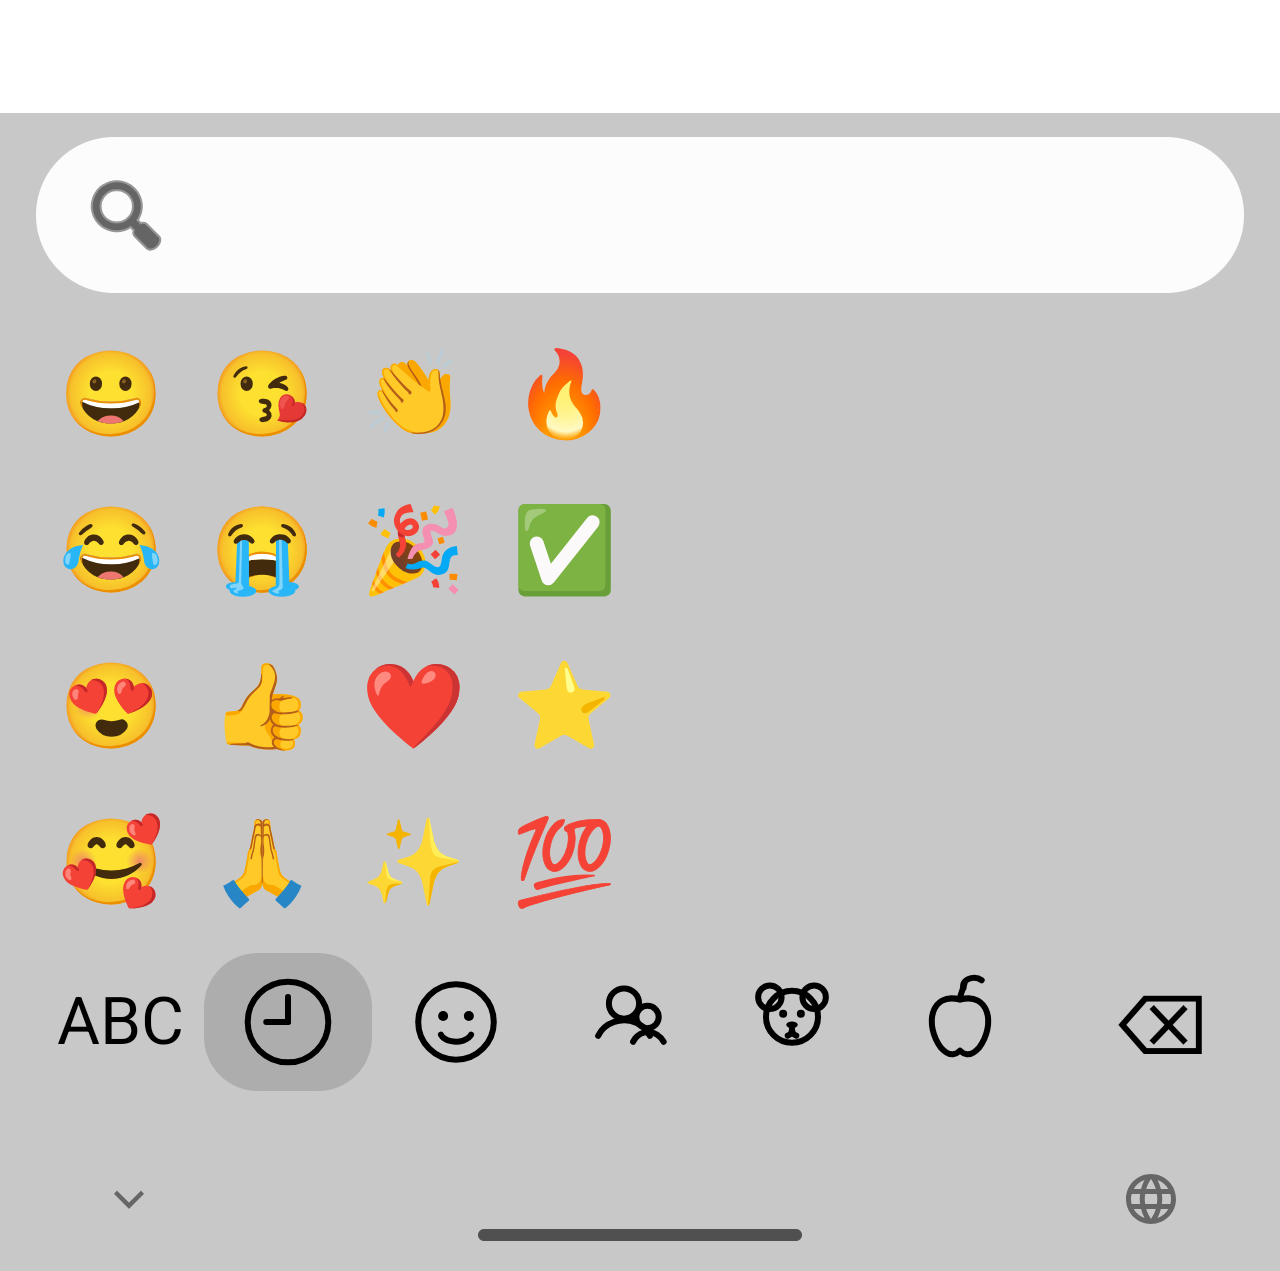
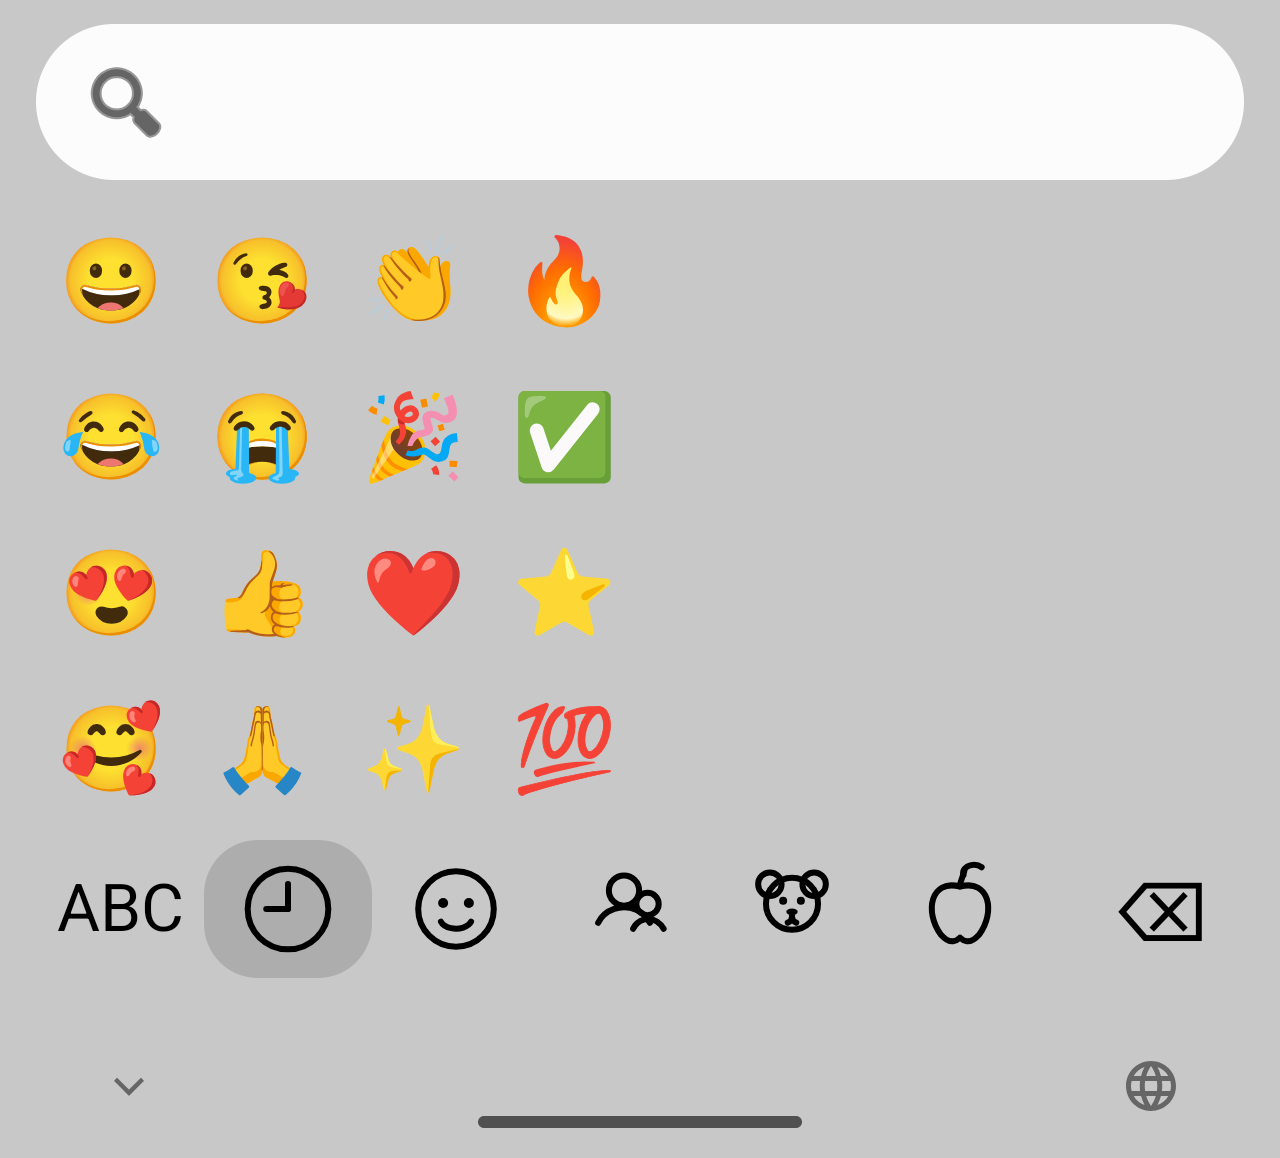
docs: sync user manual — re-crop keyboard shots, bump CSS to v8
Pull the latest from the LIME User Manual design project into docs/:

- Re-cropped keyboard captures (kb/c_*): tighter framing on the
  Android + iOS 注音 / 英文 / Emoji panels and the iOS legacy-zhuyin
  dark shot. 12 re-fetched from the project; the two iOS emoji crops
  (c_ios_emoji_light/dark) were regenerated locally — light cropped
  from kb/ios_emoji.png, dark cropped from the full-screen
  ios_emoji_panel_system_dark.png — since they exceed the design
  connector's per-file fetch cap. All 14 verified as valid PNGs.
- Manual pages: bump the manual.css cache-buster from v7 to v8 across
  all 11 pages (stylesheet content unchanged).

diff --git a/docs/pages/faq.html b/docs/pages/faq.html
@@ -9,7 +9,7 @@
 <link rel="preconnect" href="https://fonts.googleapis.com"/>
 <link rel="preconnect" href="https://fonts.gstatic.com" crossorigin/>
 <link href="https://fonts.googleapis.com/css2?family=Noto+Sans+TC:wght@400;500;700;900&family=Space+Grotesk:wght@500;600;700&display=swap" rel="stylesheet"/>
-<link rel="stylesheet" href="manual.css?v=7"/>
+<link rel="stylesheet" href="manual.css?v=8"/>
 <style>
 .faq{display:flex;flex-direction:column;gap:10px;margin:20px 0}
 .faq details{background:var(--card);border:1px solid var(--line);border-radius:14px;overflow:hidden}

diff --git a/docs/pages/advanced.html b/docs/pages/advanced.html
@@ -9,7 +9,7 @@
 <link rel="preconnect" href="https://fonts.googleapis.com"/>
 <link rel="preconnect" href="https://fonts.gstatic.com" crossorigin/>
 <link href="https://fonts.googleapis.com/css2?family=Noto+Sans+TC:wght@400;500;700;900&family=Space+Grotesk:wght@500;600;700&display=swap" rel="stylesheet"/>
-<link rel="stylesheet" href="manual.css?v=7"/>
+<link rel="stylesheet" href="manual.css?v=8"/>
 </head>
 <body>
 

diff --git a/docs/pages/database-management.html b/docs/pages/database-management.html
@@ -9,7 +9,7 @@
 <link rel="preconnect" href="https://fonts.googleapis.com"/>
 <link rel="preconnect" href="https://fonts.gstatic.com" crossorigin/>
 <link href="https://fonts.googleapis.com/css2?family=Noto+Sans+TC:wght@400;500;700;900&family=Space+Grotesk:wght@500;600;700&display=swap" rel="stylesheet"/>
-<link rel="stylesheet" href="manual.css?v=7"/>
+<link rel="stylesheet" href="manual.css?v=8"/>
 </head>
 <body>
 

diff --git a/docs/pages/ime-management.html b/docs/pages/ime-management.html
@@ -9,7 +9,7 @@
 <link rel="preconnect" href="https://fonts.googleapis.com"/>
 <link rel="preconnect" href="https://fonts.gstatic.com" crossorigin/>
 <link href="https://fonts.googleapis.com/css2?family=Noto+Sans+TC:wght@400;500;700;900&family=Space+Grotesk:wght@500;600;700&display=swap" rel="stylesheet"/>
-<link rel="stylesheet" href="manual.css?v=7"/>
+<link rel="stylesheet" href="manual.css?v=8"/>
 </head>
 <body>
 

diff --git a/docs/pages/index.html b/docs/pages/index.html
@@ -9,7 +9,7 @@
 <link rel="preconnect" href="https://fonts.googleapis.com"/>
 <link rel="preconnect" href="https://fonts.gstatic.com" crossorigin/>
 <link href="https://fonts.googleapis.com/css2?family=Noto+Sans+TC:wght@400;500;700;900&family=Space+Grotesk:wght@500;600;700&display=swap" rel="stylesheet"/>
-<link rel="stylesheet" href="manual.css?v=7"/>
+<link rel="stylesheet" href="manual.css?v=8"/>
 </head>
 <body>
 

diff --git a/docs/pages/keyboard-input.html b/docs/pages/keyboard-input.html
@@ -9,7 +9,7 @@
 <link rel="preconnect" href="https://fonts.googleapis.com"/>
 <link rel="preconnect" href="https://fonts.gstatic.com" crossorigin/>
 <link href="https://fonts.googleapis.com/css2?family=Noto+Sans+TC:wght@400;500;700;900&family=Space+Grotesk:wght@500;600;700&display=swap" rel="stylesheet"/>
-<link rel="stylesheet" href="manual.css?v=7"/>
+<link rel="stylesheet" href="manual.css?v=8"/>
 </head>
 <body>
 

diff --git a/docs/pages/license.html b/docs/pages/license.html
@@ -9,7 +9,7 @@
 <link rel="preconnect" href="https://fonts.googleapis.com"/>
 <link rel="preconnect" href="https://fonts.gstatic.com" crossorigin/>
 <link href="https://fonts.googleapis.com/css2?family=Noto+Sans+TC:wght@400;500;700;900&family=Space+Grotesk:wght@500;600;700&display=swap" rel="stylesheet"/>
-<link rel="stylesheet" href="manual.css?v=7"/>
+<link rel="stylesheet" href="manual.css?v=8"/>
 </head>
 <body>
 

diff --git a/docs/pages/preferences.html b/docs/pages/preferences.html
@@ -9,7 +9,7 @@
 <link rel="preconnect" href="https://fonts.googleapis.com"/>
 <link rel="preconnect" href="https://fonts.gstatic.com" crossorigin/>
 <link href="https://fonts.googleapis.com/css2?family=Noto+Sans+TC:wght@400;500;700;900&family=Space+Grotesk:wght@500;600;700&display=swap" rel="stylesheet"/>
-<link rel="stylesheet" href="manual.css?v=7"/>
+<link rel="stylesheet" href="manual.css?v=8"/>
 </head>
 <body>
 

diff --git a/docs/pages/privacy.html b/docs/pages/privacy.html
@@ -9,7 +9,7 @@
 <link rel="preconnect" href="https://fonts.googleapis.com"/>
 <link rel="preconnect" href="https://fonts.gstatic.com" crossorigin/>
 <link href="https://fonts.googleapis.com/css2?family=Noto+Sans+TC:wght@400;500;700;900&family=Space+Grotesk:wght@500;600;700&display=swap" rel="stylesheet"/>
-<link rel="stylesheet" href="manual.css?v=7"/>
+<link rel="stylesheet" href="manual.css?v=8"/>
 </head>
 <body>
 

diff --git a/docs/pages/quick-start.html b/docs/pages/quick-start.html
@@ -9,7 +9,7 @@
 <link rel="preconnect" href="https://fonts.googleapis.com"/>
 <link rel="preconnect" href="https://fonts.gstatic.com" crossorigin/>
 <link href="https://fonts.googleapis.com/css2?family=Noto+Sans+TC:wght@400;500;700;900&family=Space+Grotesk:wght@500;600;700&display=swap" rel="stylesheet"/>
-<link rel="stylesheet" href="manual.css?v=7"/>
+<link rel="stylesheet" href="manual.css?v=8"/>
 </head>
 <body>
 

diff --git a/docs/pages/troubleshooting.html b/docs/pages/troubleshooting.html
@@ -9,7 +9,7 @@
 <link rel="preconnect" href="https://fonts.googleapis.com"/>
 <link rel="preconnect" href="https://fonts.gstatic.com" crossorigin/>
 <link href="https://fonts.googleapis.com/css2?family=Noto+Sans+TC:wght@400;500;700;900&family=Space+Grotesk:wght@500;600;700&display=swap" rel="stylesheet"/>
-<link rel="stylesheet" href="manual.css?v=7"/>
+<link rel="stylesheet" href="manual.css?v=8"/>
 </head>
 <body>
 
